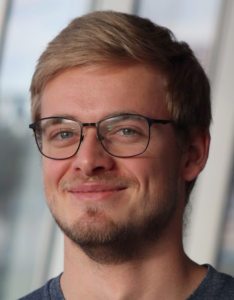
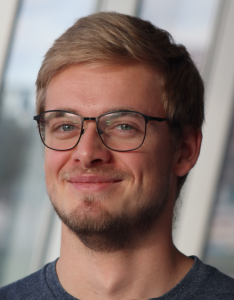
mostly updates to pictures

diff --git a/IGVF_workshop_2024.html b/IGVF_workshop_2024.html
@@ -36,7 +36,7 @@
             <a class="page-link" href="/projects.html">Projects</a>
             <a class="page-link" href="/people.html">People</a>
             <a class="page-link" href="/publications.html">Publications</a>
-            <a class="page-link" href="/IGVF_workshop_2024.html">IGVF MPRA Workshop</a>
+            <a class="page-link" href="/events.html">Events</a>
             <a class="page-link" href="/contact.html">Contact</a>
             <a class="page-link" href="/impressum.html">Impressum</a>
           </div>
@@ -103,7 +103,7 @@
 			<h3>Exact workshop location</h3>
 			<p>The workshop will happen in and around room  B1/B2 "Levi-Montalcini" on the ground floor of the CBBM Building, Marie-Curie-Stra&szlig;e 66, 23562 L&uuml;beck, Germany. The campus is rather small, so do not worry too much about navigation on campus. We are providing a map below. And here you can find links to <a href="https://www.openstreetmap.org/?mlat=53.83499&mlon=10.70370#map=17/53.83499/10.70370">OpenStreetMap</a> and <a href="https://maps.app.goo.gl/ruM2huWKcSq9RCxK6">GoogleMaps</a></p>.
 
-			<p><img src="assets/images/uzl_BMF_CBBM_buildings.png" align="center"></p>
+			<p><img src="assets/images/uzl_BMF_CBBM_buildings.jpg" align="center"></p>
             
 			<h2>Contact</h2>
 			<p>If you have any questions, please feel free to reach out to the organizers by email (humgen.mpra-workshop-organization (at) lists.uni-luebeck.de).</p>

diff --git a/people.html b/people.html
@@ -192,7 +192,7 @@
     <br />
     <b>Lusine Nazaretyan</b>
     <br />
-    Research scientist (HEIBRIDS)<br />
+    Research scientist (HEIBRIDS, DFG)<br />
     PhD candidate (HU)<br />
     <p style="font-size: small;">since November 2020</p>
     Master's Thesis Student (TU)<br />
